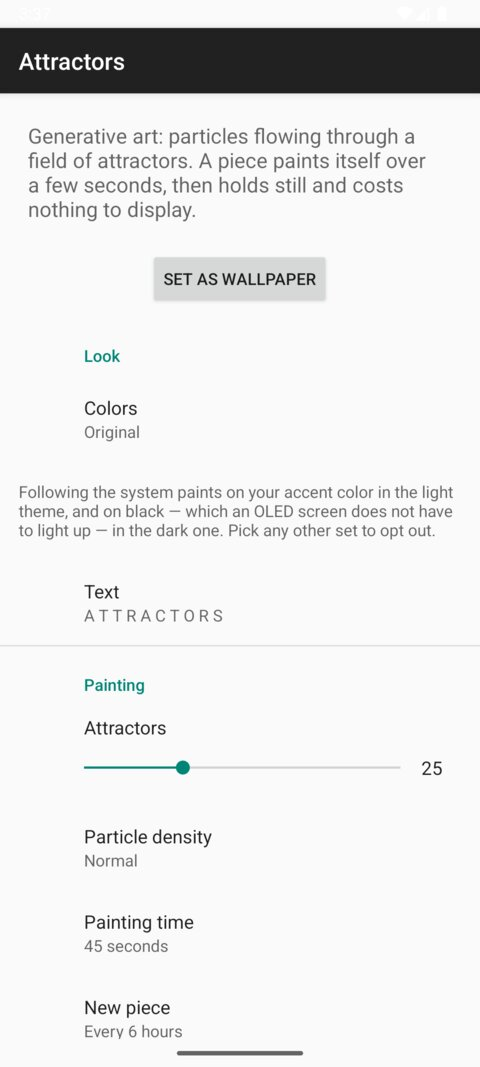
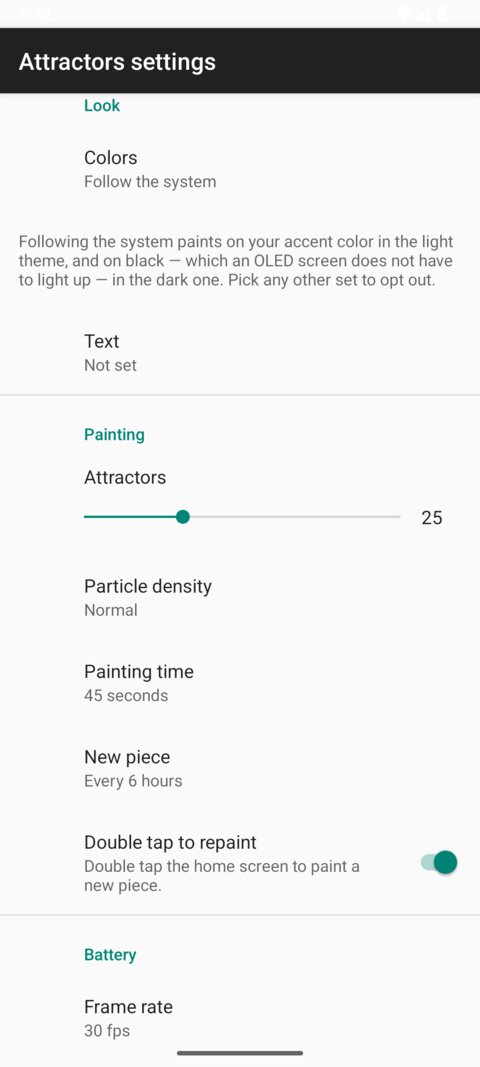
Show a piece in the wallpaper picker, and fit text to what stays on screen
The picker's thumbnail was the app's icon, which answers a question nobody
asked it: what the picker wants to show is what the wallpaper looks like. It is
now a piece.

Two things the parallax had broken or left inconsistent:

Text was laid out against the whole piece, which is wider than the screen, so
the string ran off the edge. It is now laid out against the strip that is on
screen whatever the home screen is scrolled to -- the piece less the room it
slides in, taken off both ends -- so the whole string reads at either end of
the scroll.

The dark theme, on a device taking its colors from the wallpaper, was painting
the near-white trails of the web palette onto black, which glares. It now uses
the palette's own blue and its cream brought down to meet it, the same way the
dark theme already treated the accent.

The screenshots are retaken over a home screen, since a wallpaper is a thing
you see behind icons, and the old ones predated all of the above.

Claude-Session: https://claude.ai/code/session_01L77YjrdDRiq2V8AfnDWSuv

diff --git a/app/src/main/java/fr/steren/attractors/AttractorPiece.kt b/app/src/main/java/fr/steren/attractors/AttractorPiece.kt
@@ -26,8 +26,10 @@ import kotlin.random.Random
  * frame allocates nothing and never wakes the garbage collector.
  */
 class AttractorPiece(
-    /** Width of the piece, in device pixels. */
+    /** Width of the piece, in device pixels. Wider than the screen, to slide across it. */
     private val width: Int,
+    /** Width of the piece that is on screen at once, in device pixels. */
+    private val visibleWidth: Int,
     /** Height of the piece, in device pixels. */
     private val height: Int,
     /** Device pixels in a CSS pixel, i.e. `DisplayMetrics.density`. */
@@ -455,15 +457,24 @@ class AttractorPiece(
 
         val textPaint = Paint(Paint.ANTI_ALIAS_FLAG).apply {
             typeface = this@AttractorPiece.typeface
-            // Letters are `1 / textWidthRatio` of the piece tall, which for the string the
-            // web page shows works out to about the width of the piece.
-            textSize = width / config.textWidthRatio
+            // Letters are `1 / textWidthRatio` of the screen tall, which for the string the
+            // web page shows works out to about the width of the screen.
+            textSize = visibleWidth / config.textWidthRatio
         }
 
-        // A phone is a lot narrower than the page this was tuned on, so a longer string
-        // would run off both edges. Shrink it until it fits, rather than crop it.
+        /*
+         * The text has to fit the strip of the piece that is on screen whatever the home
+         * screen is scrolled to, which is narrower than the screen: the piece is wider than
+         * the screen by the room it slides in, and the strip that is never slid past is
+         * what is left when that room is taken off both ends. Sized to the screen instead,
+         * the string would be cut off at either end of the scroll.
+         *
+         * A phone is also a lot narrower than the page this was tuned on, so a longer
+         * string is shrunk to fit rather than cropped.
+         */
+        val alwaysOnScreen = (2 * visibleWidth - width).coerceAtLeast(visibleWidth / 2)
+        val room = alwaysOnScreen * (1f - 2f * TEXT_MARGIN)
         val fullWidth = textPaint.measureText(config.text)
-        val room = width * (1f - 2f * TEXT_MARGIN)
         if (fullWidth > room) {
             textPaint.textSize *= room / fullWidth
         }

diff --git a/app/src/main/java/fr/steren/attractors/PieceConfig.kt b/app/src/main/java/fr/steren/attractors/PieceConfig.kt
@@ -56,6 +56,9 @@ data class Palette(
     fun colorSum(): Int = background + color1 + color2
 
     companion object {
+        /** The cream of the web palette, at a tone that does not glare against black. */
+        private val DARK_TRAIL = Color.parseColor("#B3A99D")
+
         /** Follows the system theme and the colors the system derives from the user's wallpaper. */
         const val SYSTEM = "system"
         const val RANDOM = "random"
@@ -104,12 +107,11 @@ data class Palette(
 
             if (!followTheAccent) {
                 val web = ALL.first()
-                return Palette(
-                    key = SYSTEM,
-                    background = if (night) Color.BLACK else web.background,
-                    color1 = web.color1,
-                    color2 = web.color2,
-                )
+                if (!night) return web.copy(key = SYSTEM)
+                // On black, the trails of the web palette are near-white and glare. Its own
+                // blue, and its cream brought down to meet it, keep the piece recognisable
+                // while staying as easy to live behind as it is in the light theme.
+                return Palette(SYSTEM, Color.BLACK, web.background, DARK_TRAIL)
             }
 
             return if (night) {

diff --git a/app/src/main/java/fr/steren/attractors/AttractorsWallpaperService.kt b/app/src/main/java/fr/steren/attractors/AttractorsWallpaperService.kt
@@ -340,6 +340,7 @@ class AttractorsWallpaperService : WallpaperService() {
             val config = settings.pieceConfig(palette)
             val new = AttractorPiece(
                 width = pieceWidth(),
+                visibleWidth = surfaceWidth,
                 height = surfaceHeight,
                 pixelRatio = resources.displayMetrics.density,
                 config = config,

diff --git a/README.md b/README.md
@@ -13,9 +13,9 @@ it slides behind the home screen as you page across it, the way a photo does.
 |---|---|---|
 | ![](docs/light.jpg) | ![](docs/dark.jpg) | ![](docs/text.jpg) |
 
-The first two follow the system: in the light theme the piece is painted on the accent
-color Android derives from your home screen, in the dark theme on plain black. The third
-uses the palette of the web page, with `A T T R A C T O R S` set as the text.
+All three follow the system, on a device that takes its theme from the wallpaper: the piece
+brings the colors of the web version, on plain black in the dark theme. The third has
+`A T T R A C T O R S` set as the text.
 
 ## Building and installing
 
